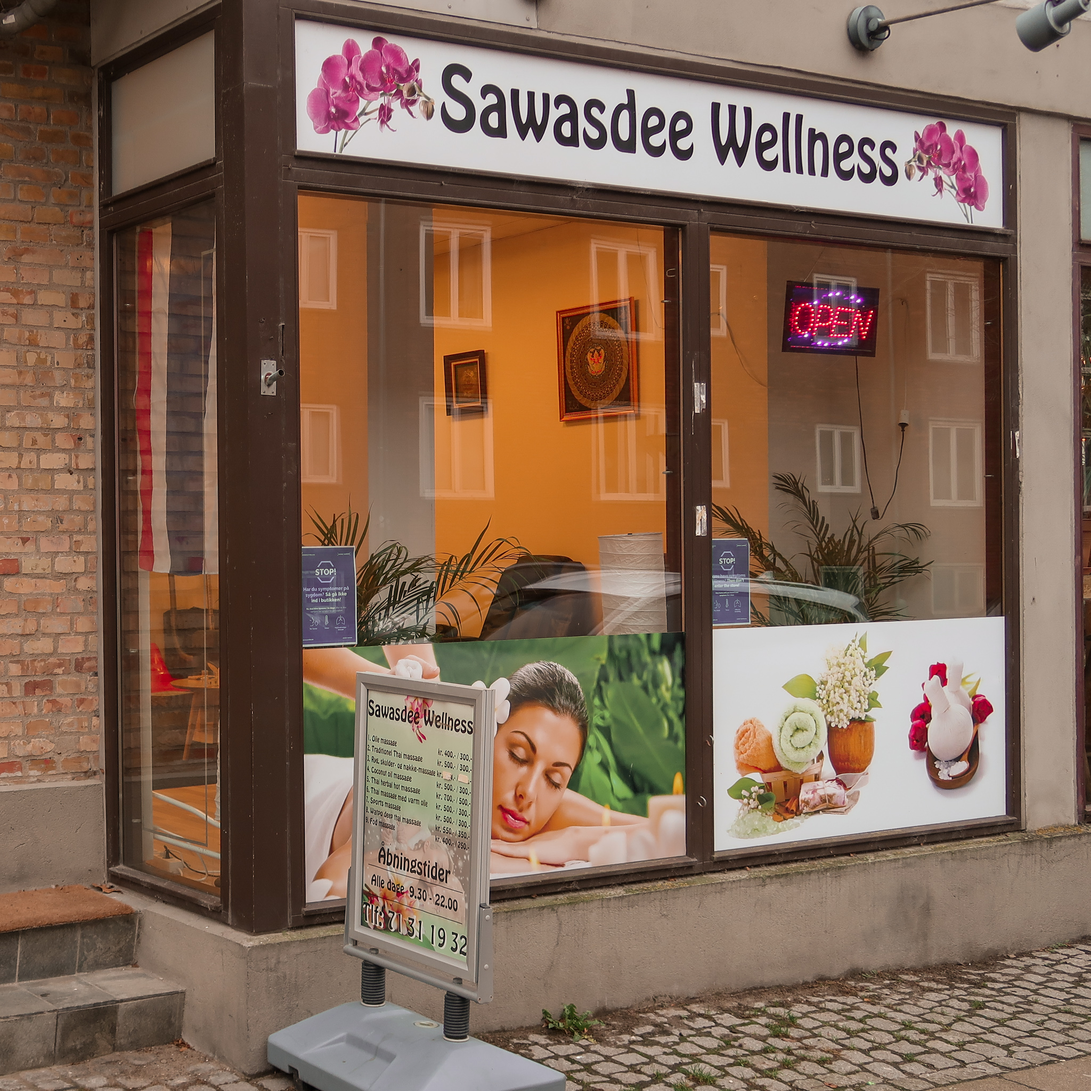
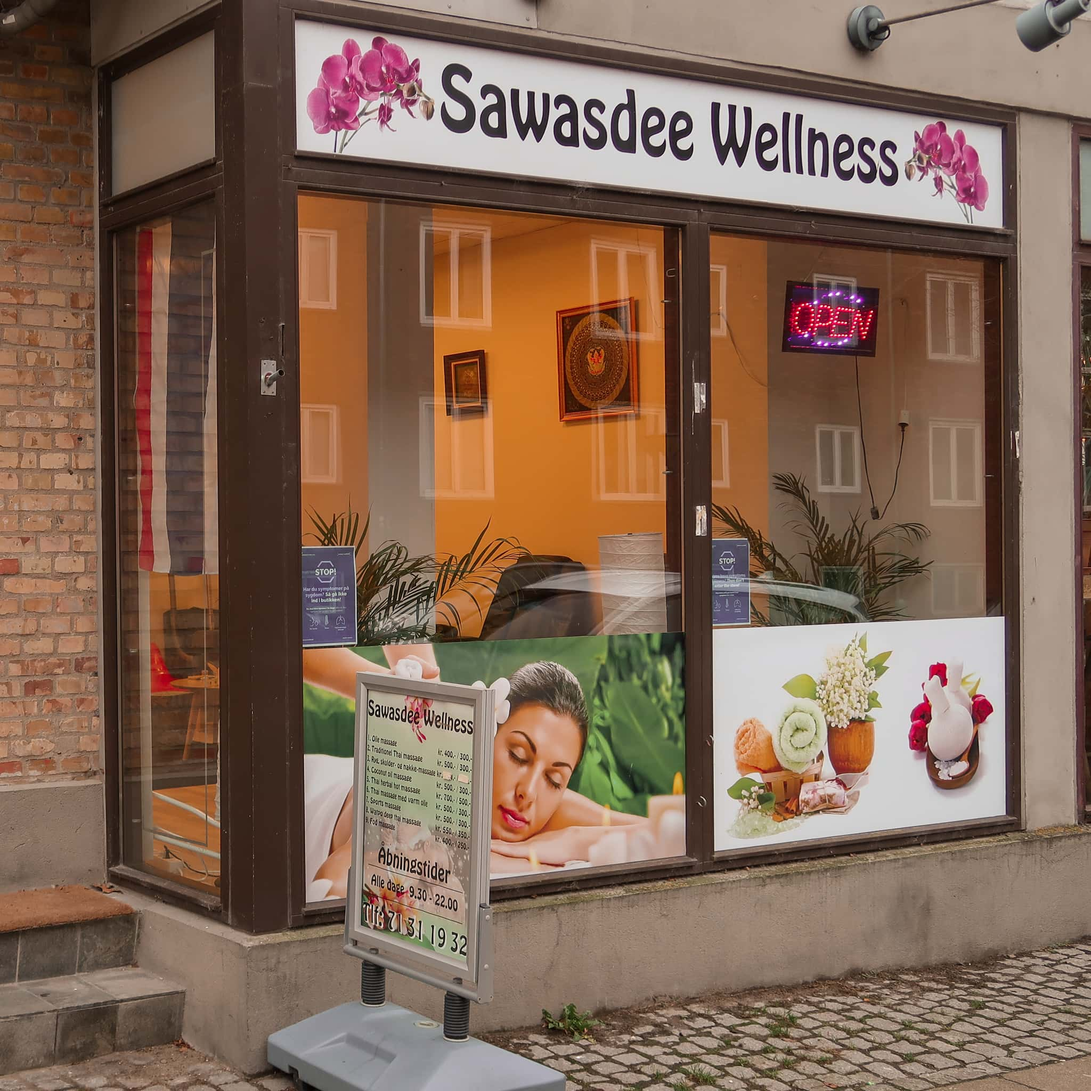
mindre pic str

diff --git a/om.html b/om.html
@@ -41,7 +41,7 @@
         <section id="section1">
             <div class="section_wrapper">
                 <div class="col">
-                    <img src="om_billeder/darn.webp" height="1601" width="2002" alt="darn">
+                    <img src="om_billeder/darn.jpg" height="1601" width="2002" alt="darn">
                 </div>
                 <div class="col">
                     <h1>Darn</h1>
@@ -63,7 +63,7 @@
                     <p>Navnet bag Sawasdee Wellness er en thailandsk hilsen. 'Sawasdee' begtyder hej, og Darn vil glæde sig til at byde dig varmt og hjerteligt velkommen i hendes lille oase. Sawasdee ka!</p>
                 </div>
                 <div class="col">
-                    <img src="om_billeder/facade.webp" width="2048" height="2048" alt="facade">
+                    <img src="om_billeder/facade.jpg" width="2048" height="2048" alt="facade">
                 </div>
             </div>
         </section>
@@ -72,22 +72,22 @@
         <section id="section3">
             <div class="galleri">
                 <figure>
-                    <div class="img1"><img src="om_billeder/olieogblomst.webp" width="2048" height="2048" alt="billede 1"></div>
+                    <div class="img1"><img src="om_billeder/olieogblomst.jpg" width="2048" height="2048" alt="billede 1"></div>
                 </figure>
                 <figure>
-                    <div class="img2"><img src="om_billeder/massage.webp" width="2048" height="2048" alt="billede 2"></div>
+                    <div class="img2"><img src="om_billeder/massage.jpg" width="2048" height="2048" alt="billede 2"></div>
                 </figure>
                 <figure>
-                    <div class="img3"><img src="om_billeder/deko.webp" width="2048" height="2048" alt="billede 3"></div>
+                    <div class="img3"><img src="om_billeder/deko.jpg" width="2048" height="2048" alt="billede 3"></div>
                 </figure>
                 <figure>
-                    <div class="img4"><img src="om_billeder/balm.webp" width="2048" height="2048" alt="billede 4"></div>
+                    <div class="img4"><img src="om_billeder/balm.jpg" width="2048" height="2048" alt="billede 4"></div>
                 </figure>
                 <figure>
-                    <div class="img5"><img src="om_billeder/blomst.webp" width="2048" height="2048" alt="billede 5"></div>
+                    <div class="img5"><img src="om_billeder/blomst.jpg" width="2048" height="2048" alt="billede 5"></div>
                 </figure>
                 <figure>
-                    <div class="img6"><img src="om_billeder/buddha.webp" width="2048" height="2048" alt="billede 6"></div>
+                    <div class="img6"><img src="om_billeder/buddha.jpg" width="2048" height="2048" alt="billede 6"></div>
                 </figure>
             </div>
         </section>
